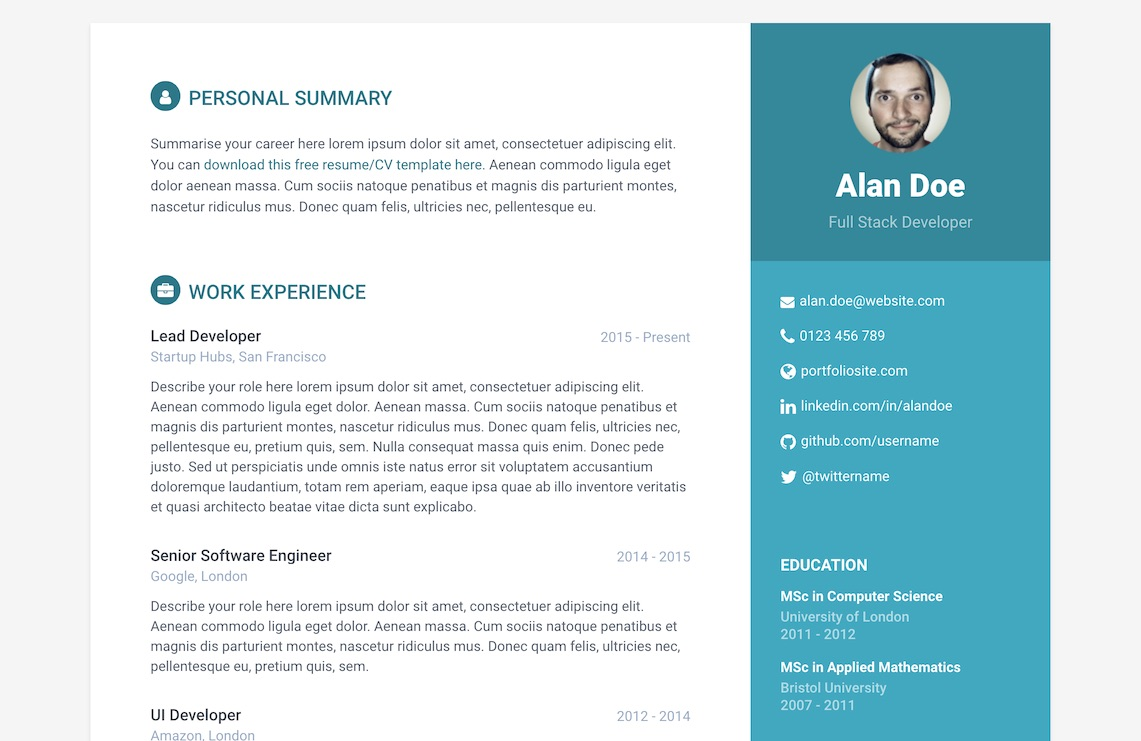
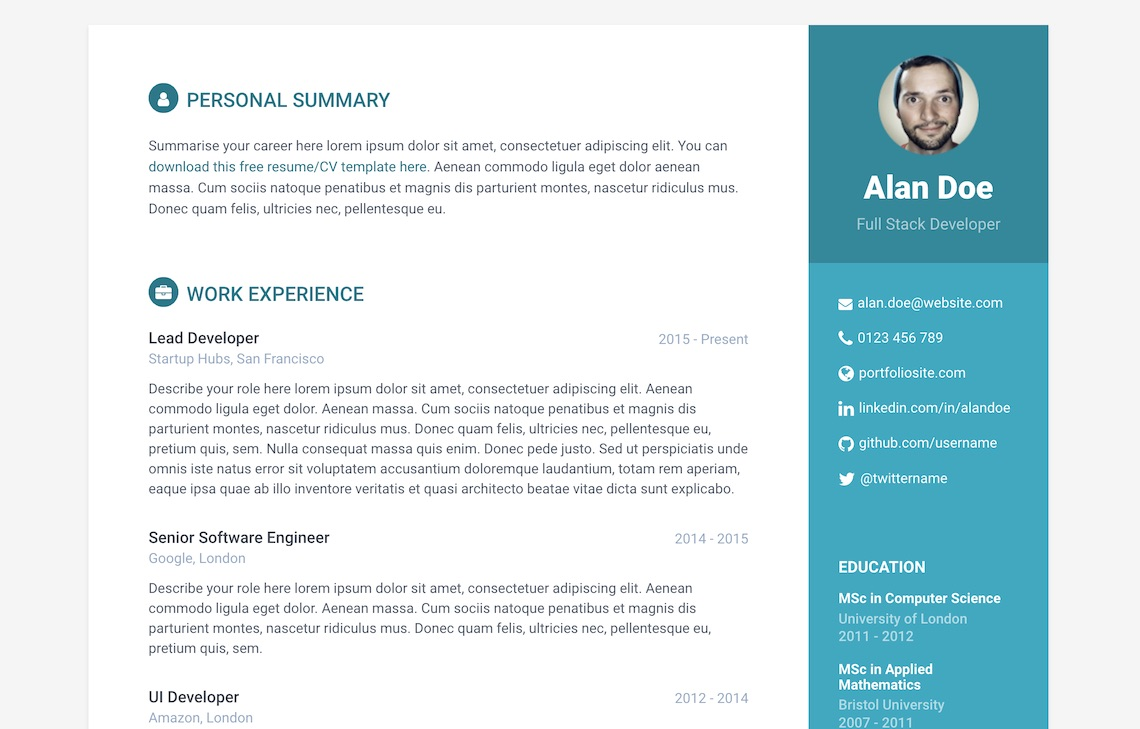
Previous example resume and screenshot were generated with 300px sidebar. These use 240px

diff --git a/docs/resume.html b/docs/resume.html
@@ -72,7 +72,7 @@ p {
   background: #42A8C0;
   position: absolute;
   right: 0;
-  width: 300px;
+  width: 240px;
   height: 100%;
   min-height: 800px;
   color: #fff;
@@ -172,7 +172,7 @@ p {
 .main-wrapper {
   background: #fff;
   padding: 60px;
-  padding-right: 360px;
+  padding-right: 300px;
   min-height: 800px;
 }
 .main-wrapper .section-title {
